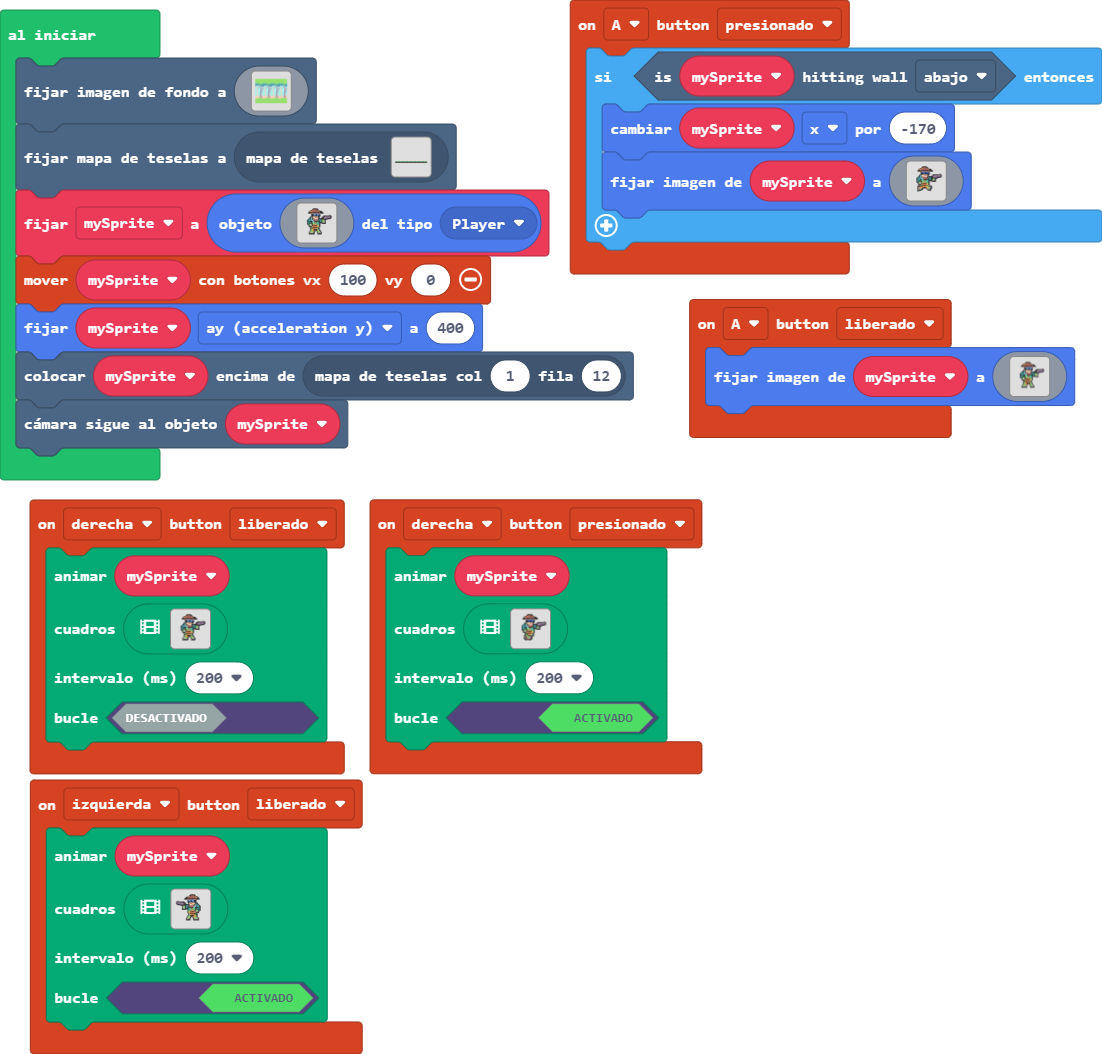
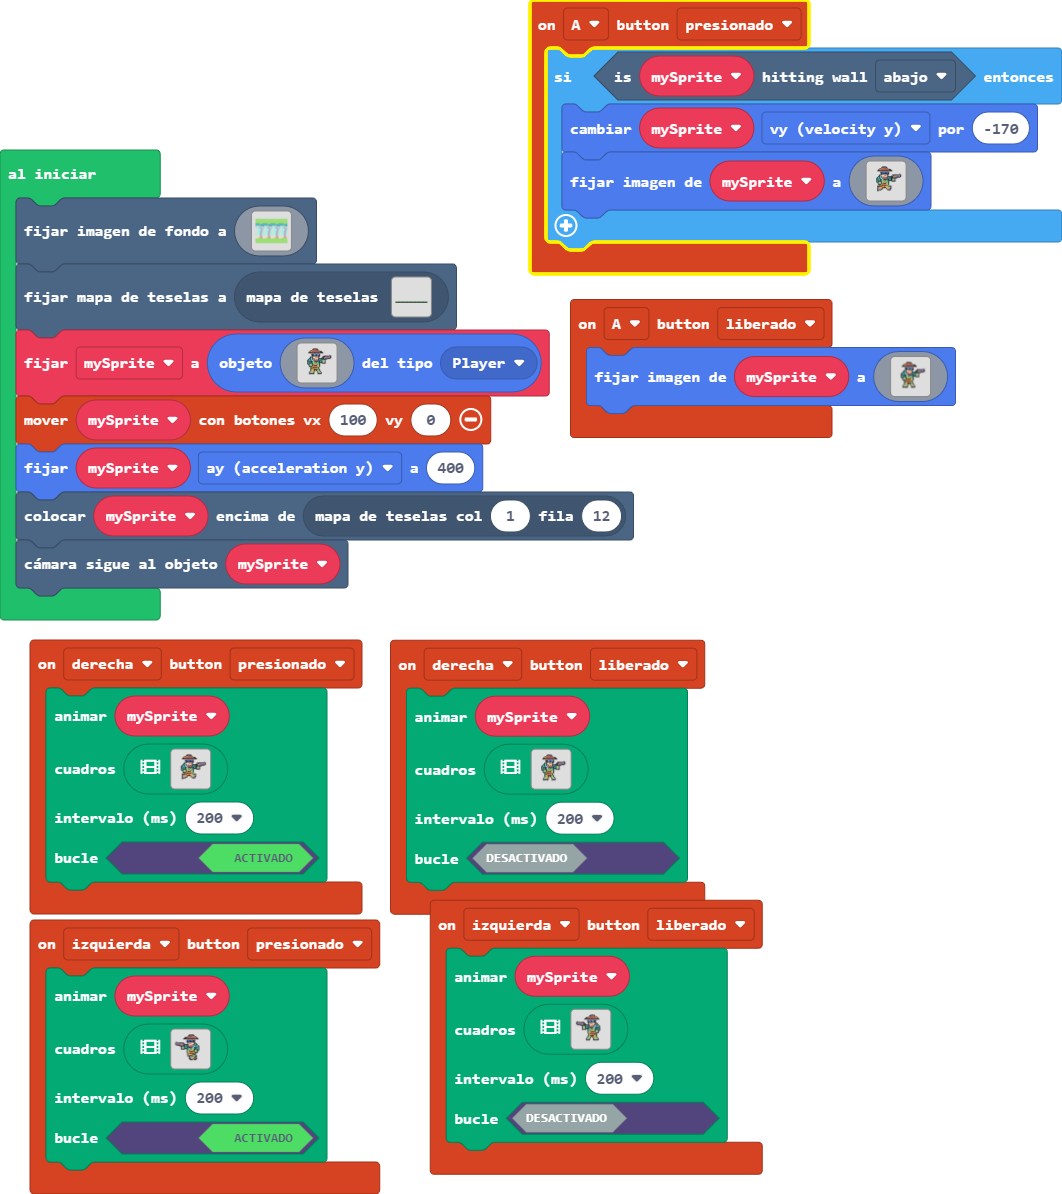
Actualizar main.blocks, main.ts, images.g.jres, images.g.ts

diff --git a/main.ts b/main.ts
@@ -11,54 +11,13 @@ controller.left.onEvent(ControllerButtonEvent.Released, function () {
     mySprite,
     assets.animation`quieto0`,
     200,
-    true
+    false
     )
 })
 controller.right.onEvent(ControllerButtonEvent.Pressed, function () {
     animation.runImageAnimation(
     mySprite,
     [img`
-        ........................................
-        ........................................
-        ................ffffff..................
-        ...............ff4eeeff.................
-        .............ff44eeeee4f................
-        ............f44eeeeeeeeefff.............
-        ...........ff4eeeeeeeeee4fff............
-        ..........fffffffffffffffffff...........
-        ..............bbbbbbbbbbb...............
-        ..............fff888f888f...............
-        ..............fff888f888f...............
-        ...............ffffffffff............f..
-        .............fffdddddddf....fffffffffbf.
-        ............ff9fdddeeedf...fbfbbbbbbbbf.
-        ...........f6f9ffde111effffffbbbccccccf.
-        ..........f66f9fdfededef666ffbbcccffff..
-        .........f666f99fdeeeeef6f6fffffff......
-        .........ff666f99feeeef6f66f77bf........
-        .........f66ffff99ffff6ff66f77bf........
-        .........f6666f677c7c766ffffbbbf........
-        .........f6fffff777c7766f..fffff........
-        .........f6f77bf77c7c766f...............
-        ..........ff77bff4444f77f...............
-        ...........fbbbf4ffff447f...............
-        ...........ffff444444444f...............
-        .............f77ffffff7f................
-        .............ffff44447bf................
-        .............f7f7f4447bf................
-        ............ff77bbffff7f................
-        ............fbf7bf7bbff.................
-        ............fbf4777bbf..................
-        ............fbff47bbff..................
-        ............ffbbf4bbff..................
-        .............fff.ffff...................
-        ........................................
-        ........................................
-        ........................................
-        ........................................
-        ........................................
-        ........................................
-        `,img`
         ........................................
         ........................................
         ...............ffffff...................
@@ -99,15 +58,64 @@ controller.right.onEvent(ControllerButtonEvent.Pressed, function () {
         ........................................
         ........................................
         ........................................
+        `,img`
+        ........................................
+        ........................................
+        ................ffffff..................
+        ...............ff4eeeff.................
+        .............ff44eeeee4f................
+        ............f44eeeeeeeeefff.............
+        ...........ff4eeeeeeeeee4fff............
+        ..........fffffffffffffffffff...........
+        ..............bbbbbbbbbbb...............
+        ..............fff888f888f...............
+        ..............fff888f888f...............
+        ...............ffffffffff............f..
+        .............fffdddddddf....fffffffffbf.
+        ............ff9fdddeeedf...fbfbbbbbbbbf.
+        ...........f6f9ffde111effffffbbbccccccf.
+        ..........f66f9fdfededef666ffbbcccffff..
+        .........f666f99fdeeeeef6f6fffffff......
+        .........ff666f99feeeef6f66f77bf........
+        .........f66ffff99ffff6ff66f77bf........
+        .........f6666f677c7c766ffffbbbf........
+        .........f6fffff777c7766f..fffff........
+        .........f6f77bf77c7c766f...............
+        ..........ff77bff4444f77f...............
+        ...........fbbbf4ffff447f...............
+        ...........ffff444444444f...............
+        .............f77ffffff7f................
+        .............ffff44447bf................
+        .............f7f7f4447bf................
+        ............ff77bbffff7f................
+        ............fbf7bf7bbff.................
+        ............fbf4777bbf..................
+        ............fbff47bbff..................
+        ............ffbbf4bbff..................
+        .............fff.ffff...................
+        ........................................
+        ........................................
+        ........................................
+        ........................................
+        ........................................
+        ........................................
         `],
+    200,
+    true
+    )
+})
+controller.left.onEvent(ControllerButtonEvent.Pressed, function () {
+    animation.runImageAnimation(
+    mySprite,
+    assets.animation`izquierda`,
     200,
     true
     )
 })
 controller.A.onEvent(ControllerButtonEvent.Pressed, function () {
     if (mySprite.isHittingTile(CollisionDirection.Bottom)) {
-        mySprite.x += -170
-        mySprite.setImage(assets.image`myImage1`)
+        mySprite.vy += -170
+        mySprite.setImage(assets.image`myImage1z`)
     }
 })
 controller.A.onEvent(ControllerButtonEvent.Released, function () {

diff --git a/images.g.ts b/images.g.ts
@@ -213,7 +213,7 @@ ddddd77777777777777777777777777777777777ddddd77777777777777777777777777777777777
 7777777777777777777777777777777777777777777777777777777777777777777777777777777777777777777777777777777777777777777777777777777777777777777777777777777777777777
 `;
             case "image3":
-            case "myImage1":return img`
+            case "myImage1z":return img`
 ........................................
 ........................................
 ...............ffffff...................
